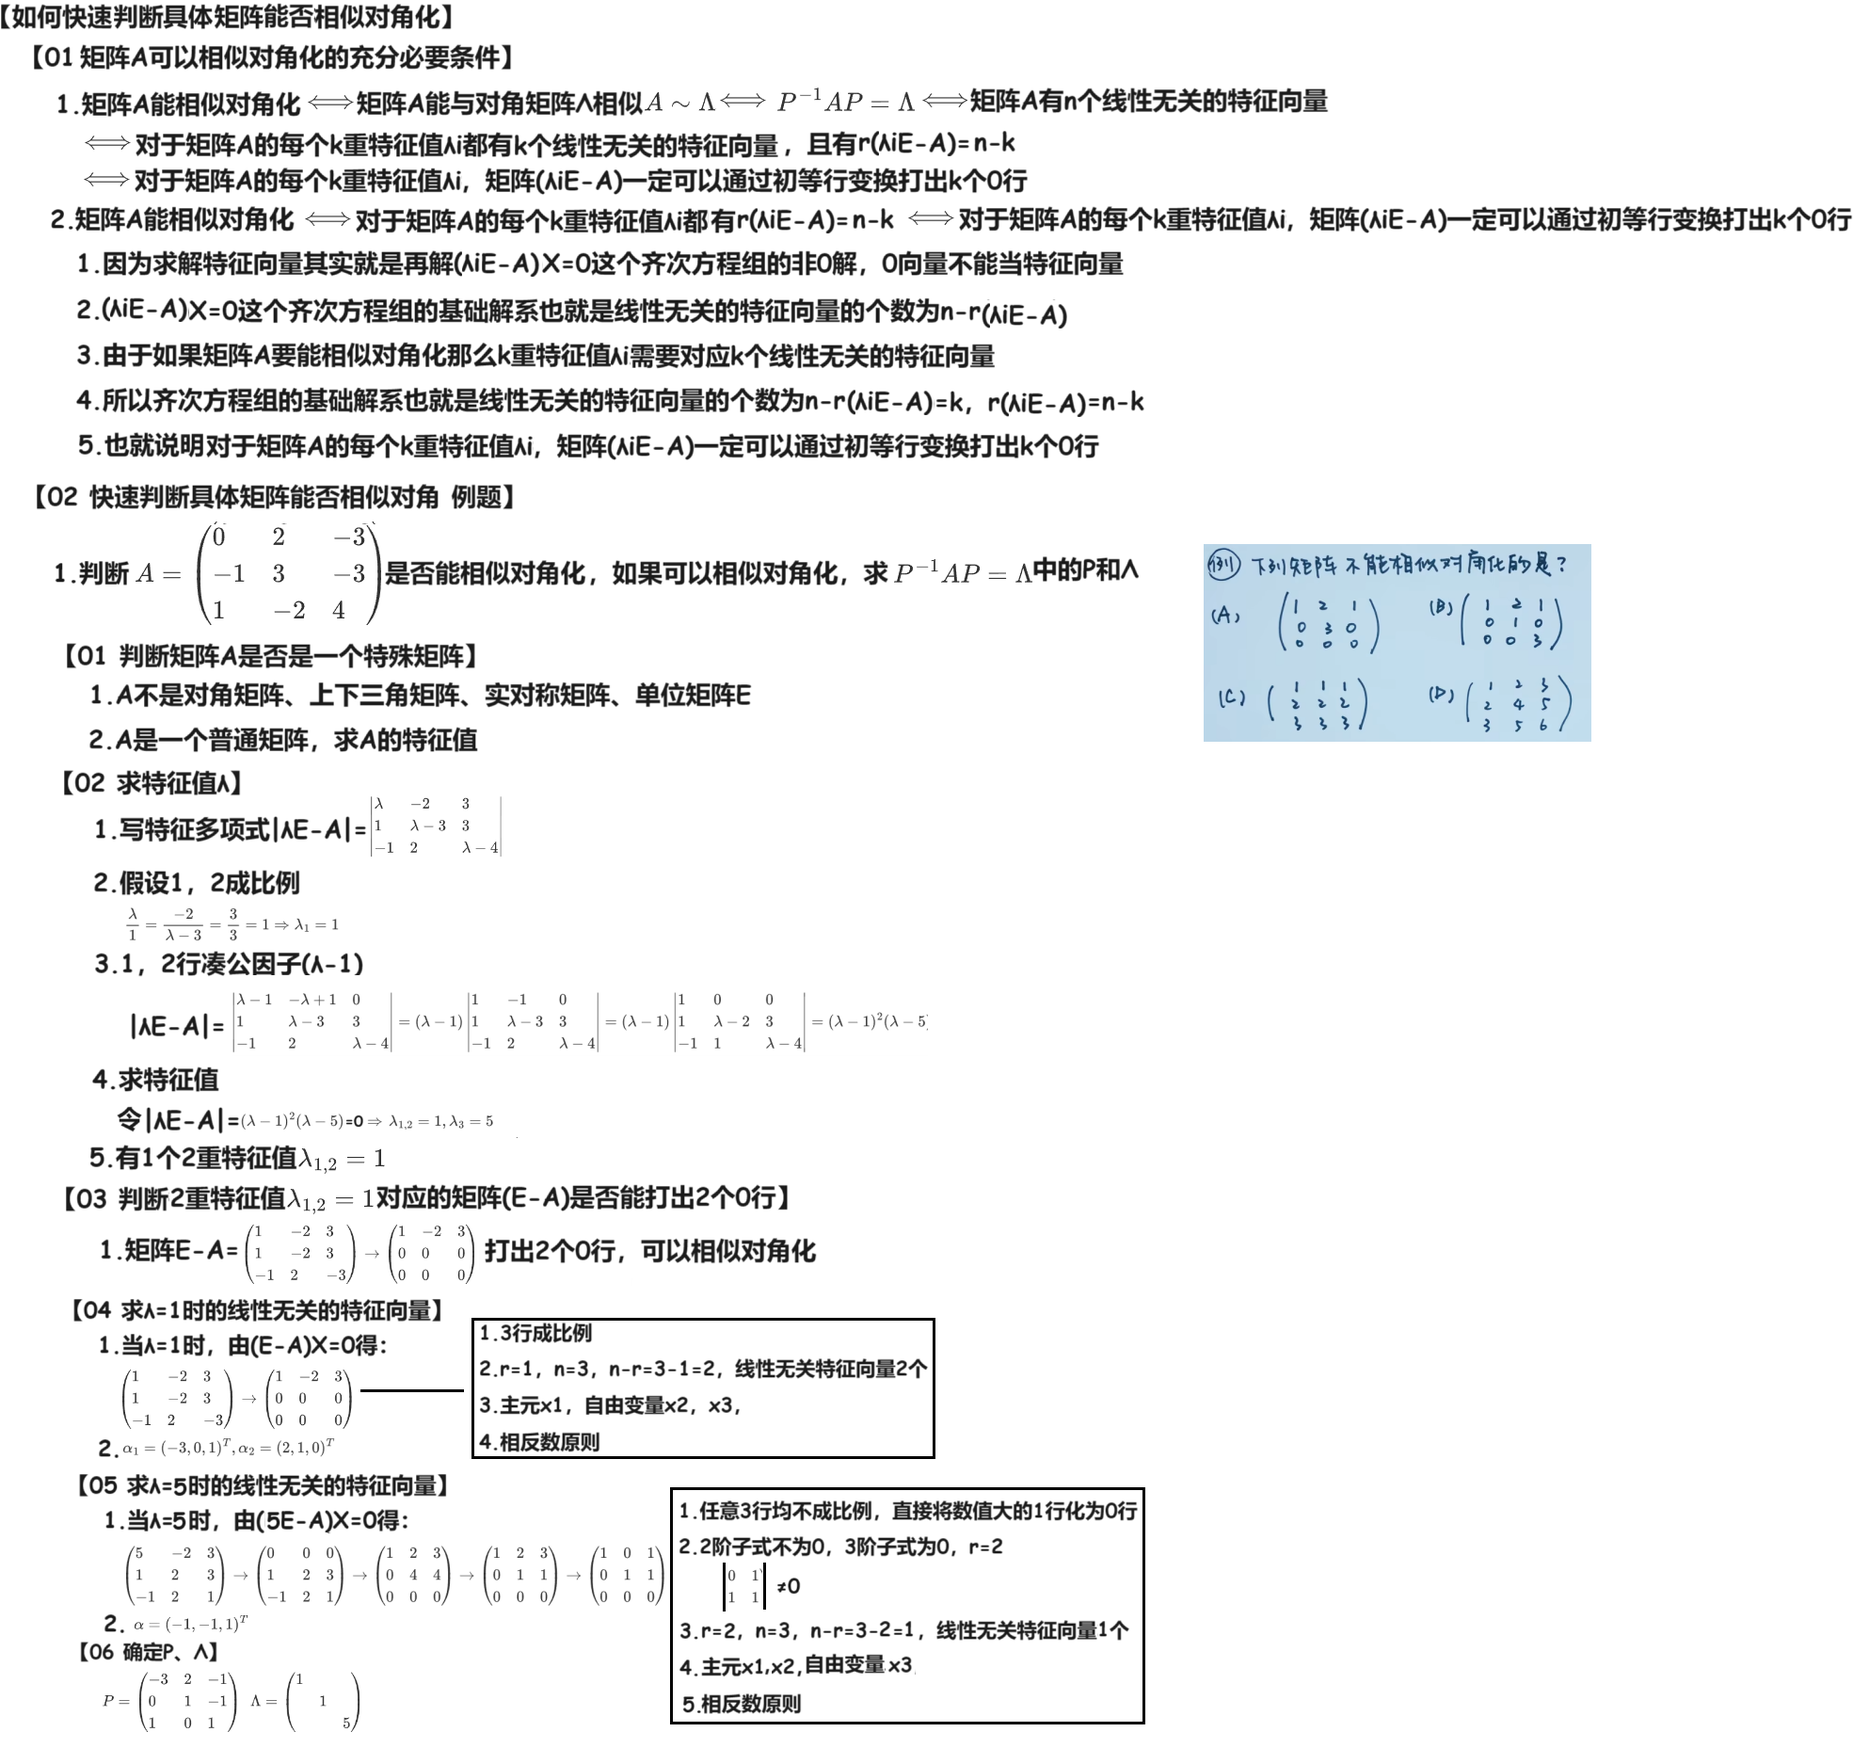
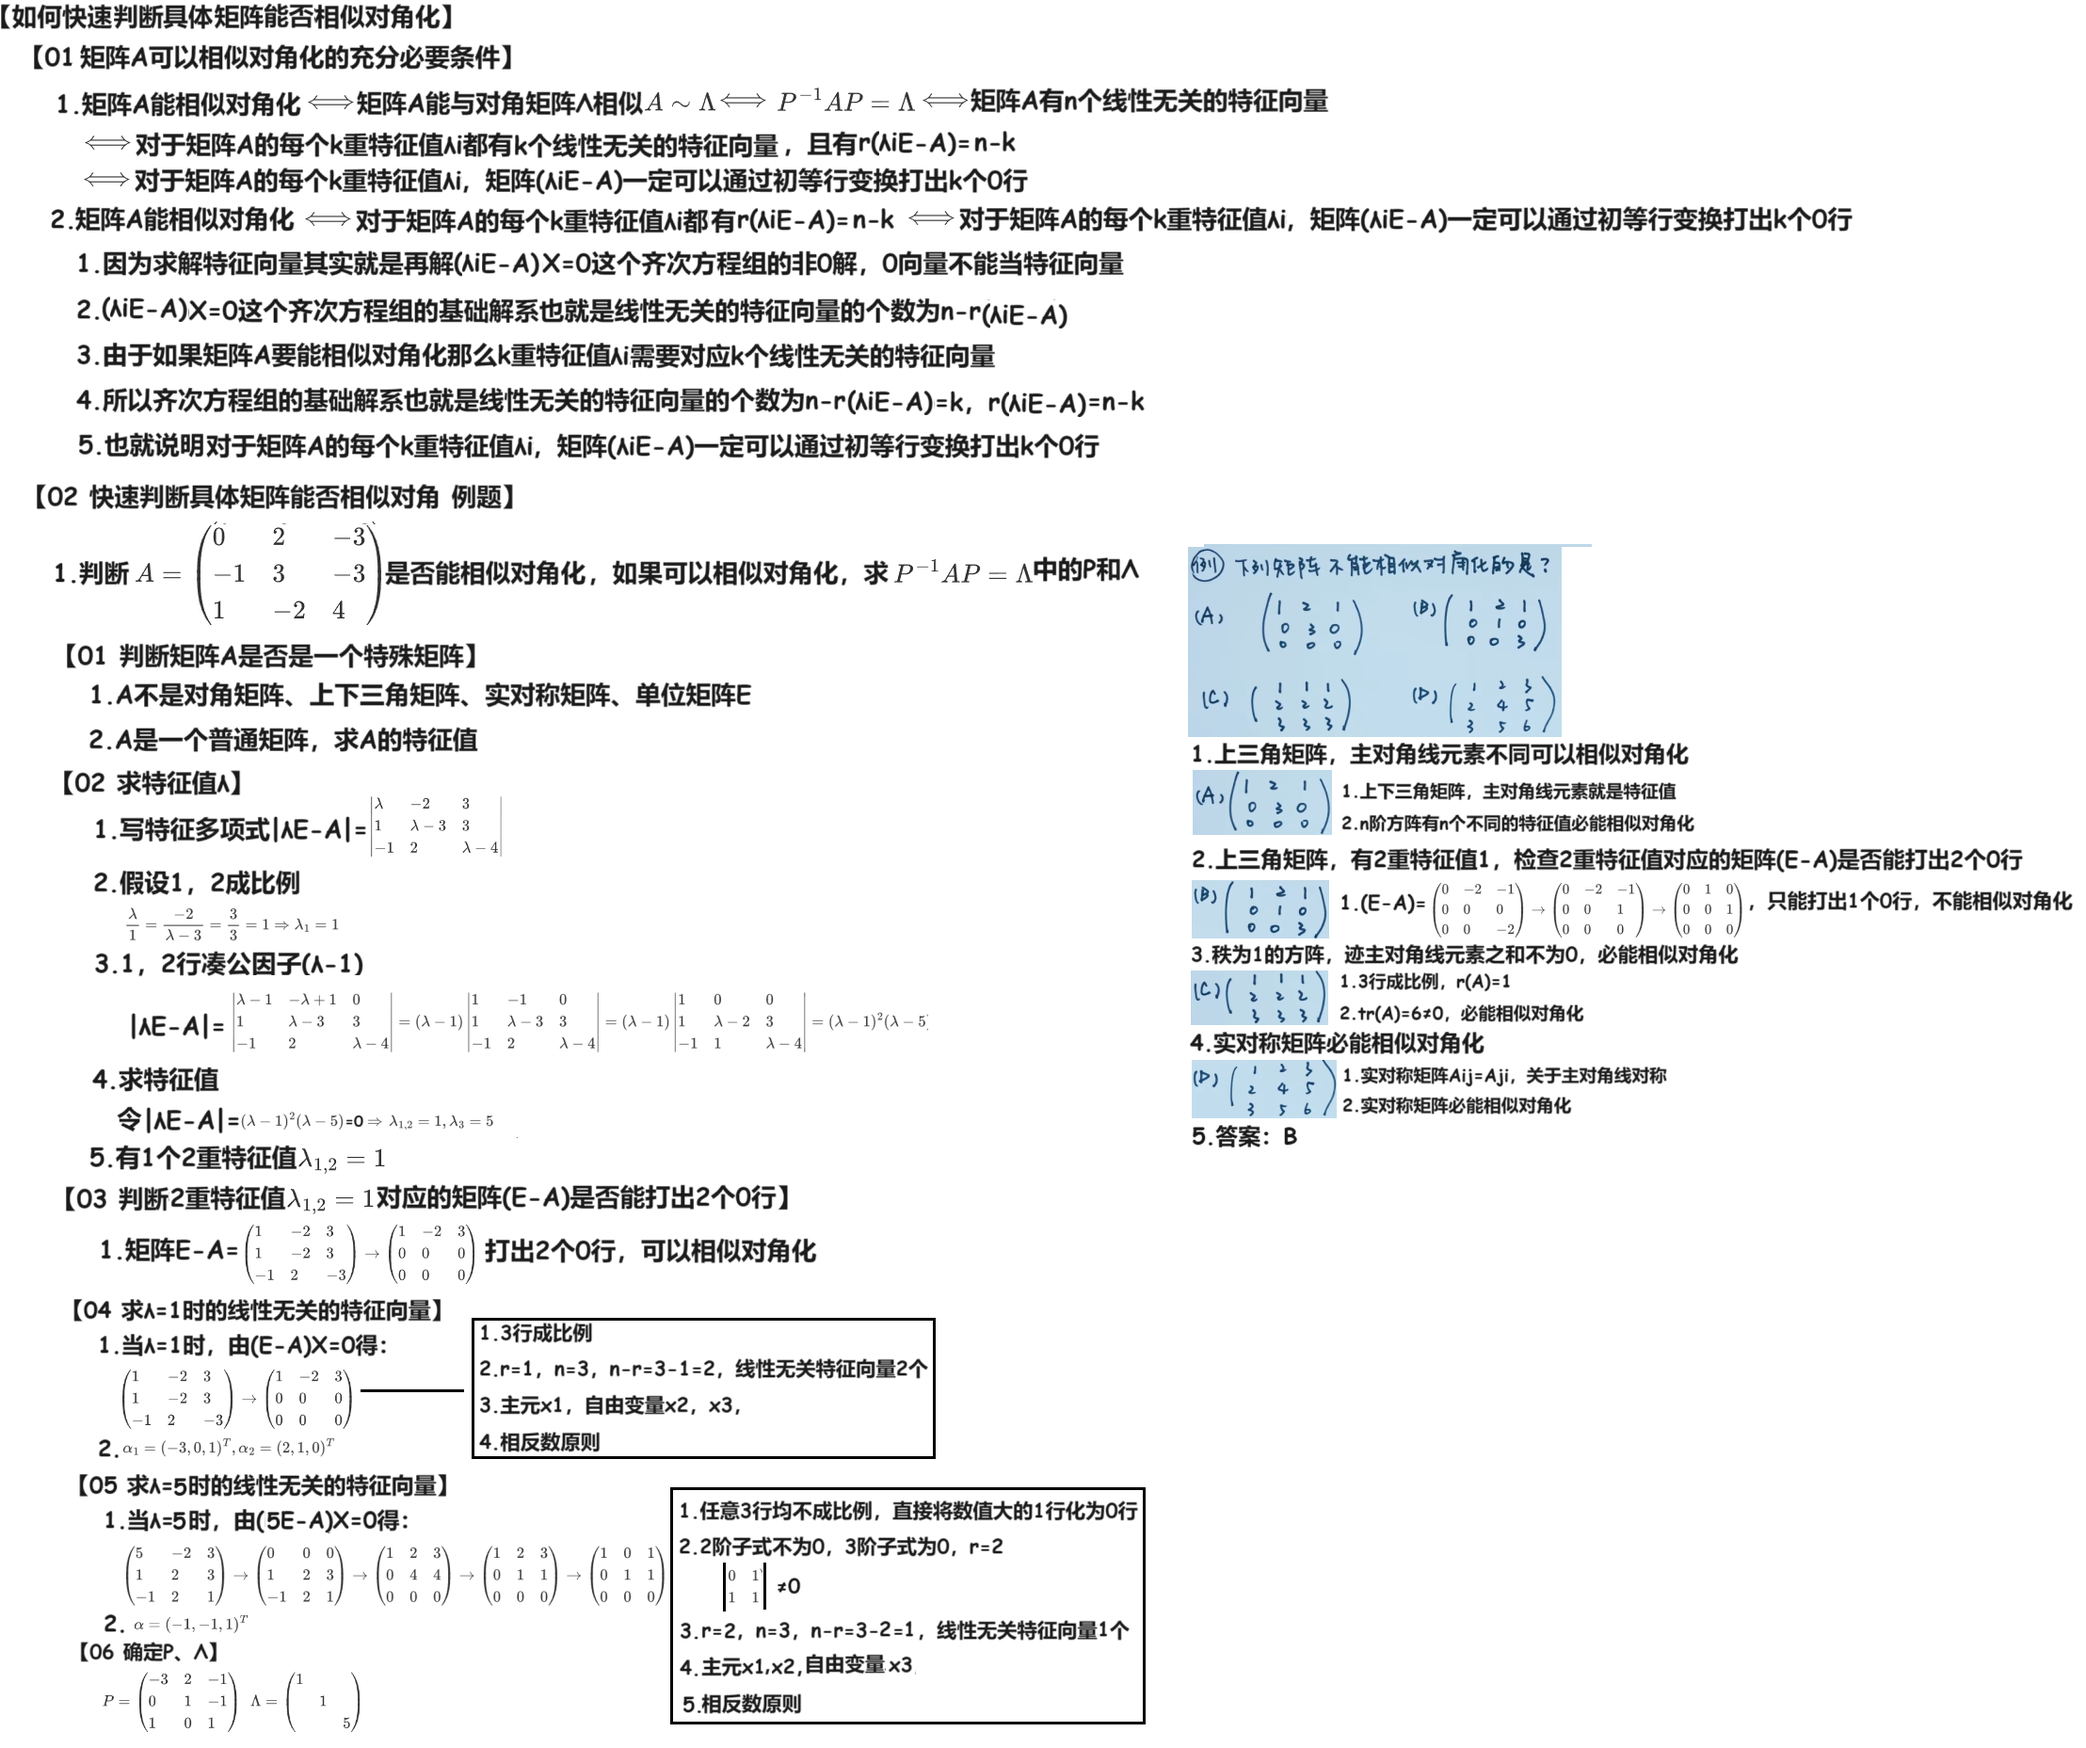
240313

Changed region(s): [[0.0, 0.0, 0.999, 0.9995], [0.1873, 0.5622, 0.3746, 0.5934], [0.4058, 0.5622, 0.4371, 0.5934]]

diff --git a/02 线代/01 题集/02 专题/01 相似对角化 240313/01 知识点/03 Kira 如何快速判断具体矩阵能否相似对角化 240313/02 Doc.md b/02 线代/01 题集/02 专题/01 相似对角化 240313/01 知识点/03 Kira 如何快速判断具体矩阵能否相似对角化 240313/02 Doc.md
@@ -1,1 +1,3 @@
 # 如何快速判断具体矩阵能否相似对角化
+
+<img src="https://cvp.oss-cn-shanghai.aliyuncs.com/picgo/202403131509301.png" style="zoom:50%;" />
